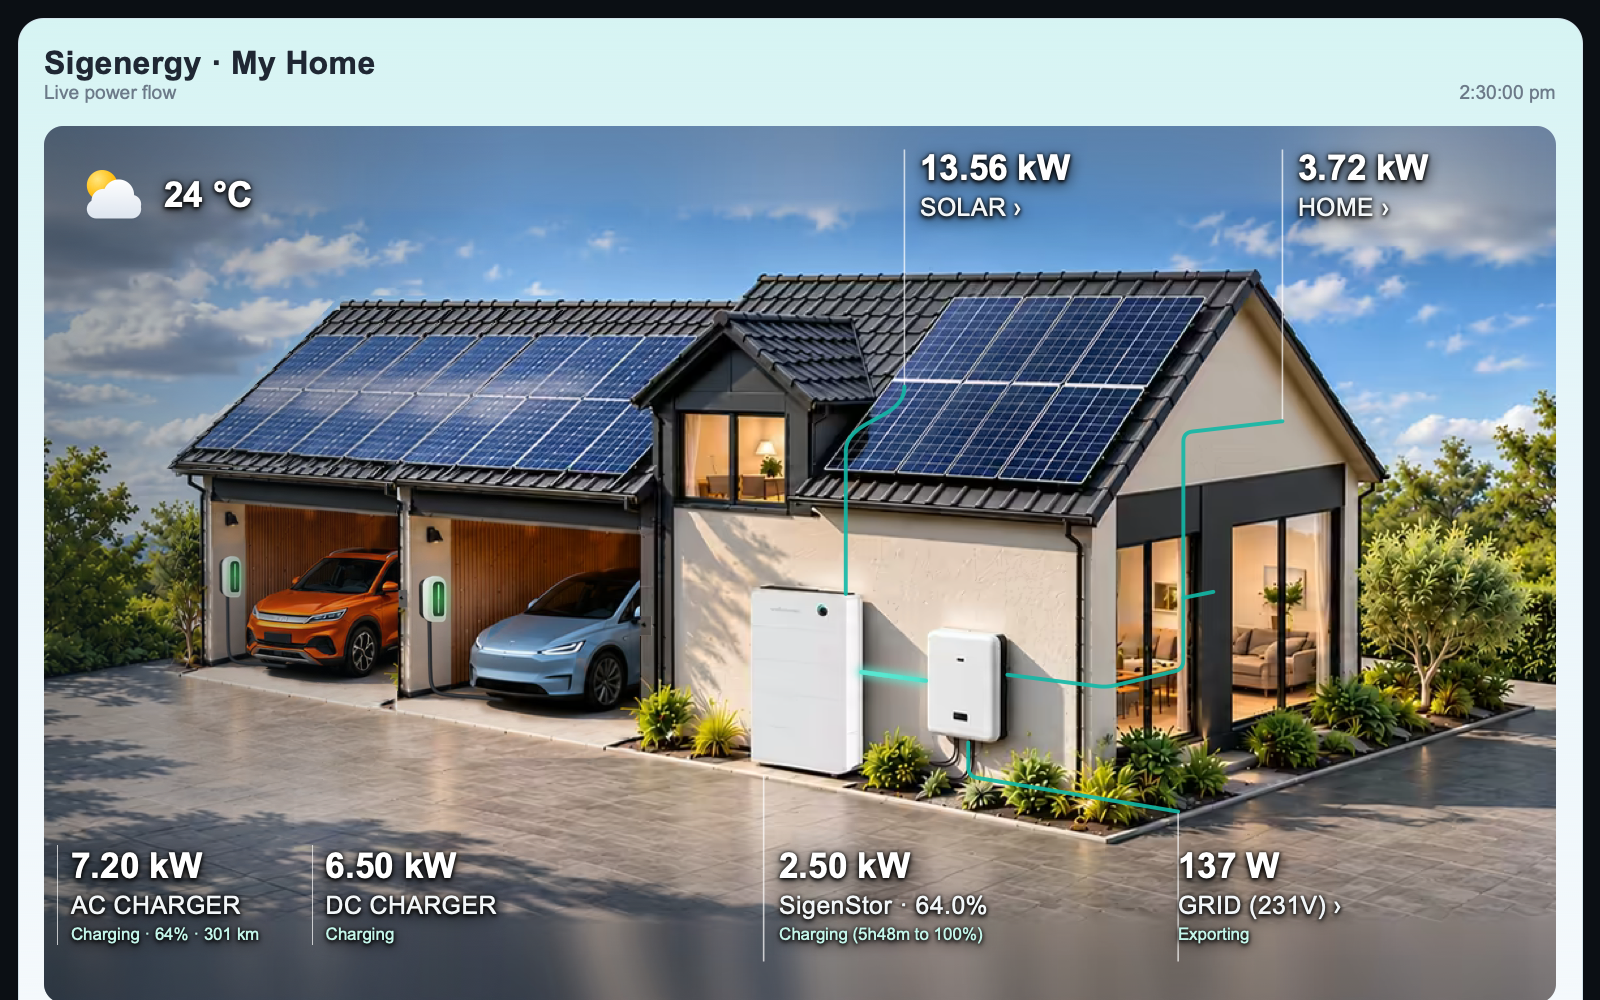
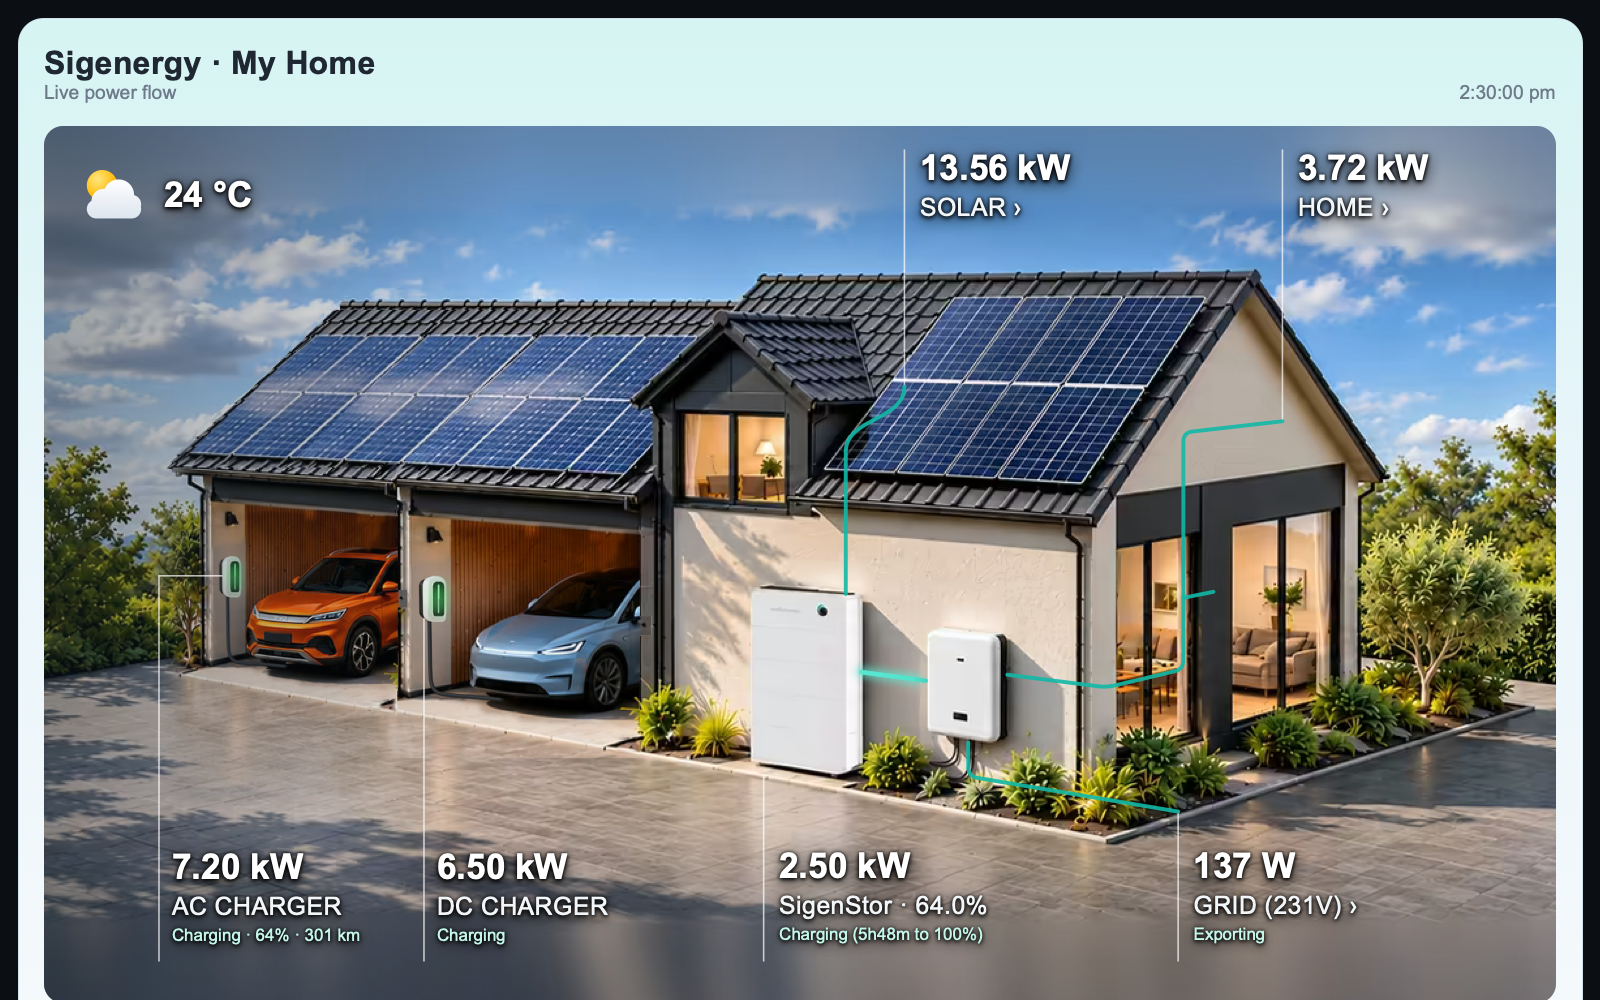
Mark the card file as v78 and refresh the screenshots

Changed region(s): [[0.0312, 0.837, 0.4062, 0.961], [0.0938, 0.31, 0.3438, 0.465], [0.7188, 0.837, 0.8438, 0.961]]

diff --git a/sigenergy-flow-card.js b/sigenergy-flow-card.js
@@ -14,7 +14,7 @@
  * limitations under the License.
  */
 
-/* Sigenergy Flow Card v77 — standalone Home Assistant Lovelace custom card */
+/* Sigenergy Flow Card v78 — standalone Home Assistant Lovelace custom card */
 
 // Scene coordinates: the house photo (1676x557 units) sits between a band above it for the SOLAR and HOME
 // readings and a band below it for SigenStor and GRID. tools/embed-artwork.py builds both bands from

diff --git a/CHANGELOG.md b/CHANGELOG.md
@@ -2,6 +2,15 @@
 
 Each release is tagged `vN` on GitHub; HACS offers the newest release as the update.
 
+## v78
+
+- The charger readings sit in the bottom row, their tops level with SigenStor and GRID, whenever they fit there, on phones too ([#24](https://github.com/jyavenard/sigenergy-flow-card/issues/24)). Each one starts as close as it fits to its charger on the garage wall, with a line from the charger, as in Sigenergy's app; every line in the row ends at the same level, below the lowest reading. Whether they fit is decided from their longest form (charging, with the vehicle's SOC and range), so they don't move as the charger's state changes; the row rises a little to make room if needed. Readings that don't fit (e.g. two chargers on a narrow phone) stand at the left of the garage, which leaves the car in view; on a phone, a single charger's reading used to stand over the car. The double garage's readings line up by their tops too, and GRID's text keeps the same gap from its line as the others.
+- GRID shows the current electricity price beside the direction, e.g. **Importing · 28.1¢/kWh**, and the sell price while exporting ([#22](https://github.com/jyavenard/sigenergy-flow-card/issues/22)). By default the prices are the Energy dashboard's (each grid connection's cost tracking and compensation, an entity or a static price); with one grid connection per tariff, the price is the utility meter tariff collecting now. The new `grid_import_price` and `grid_export_price` entities keys take other sensors, such as Amber's, or `false` to hide the price. Prices per kWh in dollars, euros, pounds or Scandinavian crowns show in cents, pence or øre.
+- A second Sigenergy AC charger shows as **AC CHARGER 2** and takes the double garage's other bay, with its car, cable and charging light ([#21](https://github.com/jyavenard/sigenergy-flow-card/issues/21)). `garage: auto` gives the double garage for two AC chargers as well as AC + DC, and `car_2`, `car_shown_2` and `car_charging_2` drive the second charger's car. The card finds the second charger's entities with both integrations (they're numbered by its Modbus address); the new `ac_charger_power_2`, `ac_charger_state_2`, `ac_charger_total_energy_2`, `ac_charger_vehicle_soc_2` and `ac_charger_vehicle_range_2` keys set them instead. The Power metrics' EVAC line, HOME's balance and `home_includes_ac_charger` add both chargers' power; when the EVAC counter falls back to the first charger's energy consumed, Energy statistics and Energy metrics add the second's.
+- The AC charger's vehicle range shows its sensor's unit, e.g. "242 mi", where it always said km ([#20](https://github.com/jyavenard/sigenergy-flow-card/issues/20)).
+- With the DC charger hidden (`dc_charger_power: false`), a vehicle connected to it no longer shows the AC charger's cable plugged in and its light on.
+- The double garage's added solar panels alternate like the existing ones instead of repeating one reflection, and sit at the same height; the weather photos no longer show a light band along the new bay's ridge, and the cloudy photo is lighter. These photos load from GitHub, so they already show with v77.
+
 ## v77
 
 - The scene follows the weather: with the `weather` entity reporting cloud, fog, rain, storms, hail, snow or wind, the house is shown in that weather, by day and at night, the built-in car and the double garage included ([#15](https://github.com/jyavenard/sigenergy-flow-card/issues/15)). The photos are loaded from GitHub like the cars, when the weather changes; until one has loaded, or if it can't, the card keeps the photo it shows. Sunny and clear nights keep the usual photos, and the new `weather_scene: false` keeps them always.
